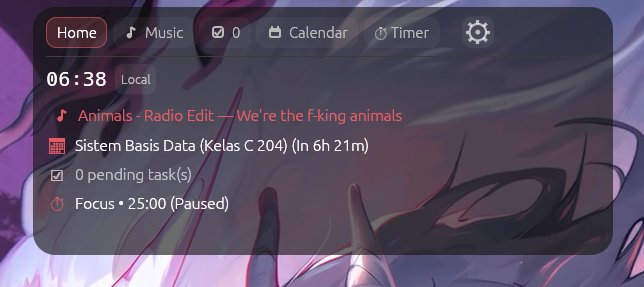
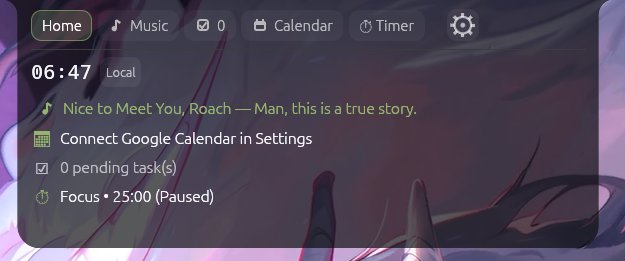
docs: update Home Overview preview screenshot

diff --git a/docs/04 - Changelog & Dev Log.md b/docs/04 - Changelog & Dev Log.md
@@ -12,7 +12,7 @@ tags:
 
 ### Changed
 
-- `README.md`, `assets/*`: Memperbarui dokumentasi fitur dan menyematkan seluruh galeri preview UI terbaru (`ui-notch-clock.png`, `ui-island-clock.png`, `ui-notch-music.png`, `ui-island-music.png`, `ui-home.jpg`, `ui-music-lyrics.jpg`, `ui-todo.jpg`, `ui-calendar.jpg`, `ui-timer.jpg`, `ui-settings.png`).
+- `README.md`, `assets/*`: Memperbarui dokumentasi fitur dan menyematkan seluruh galeri preview UI terbaru (`ui-notch-clock.png`, `ui-island-clock.png`, `ui-notch-music.png`, `ui-island-music.png`, `ui-home.jpg` [diperbarui], `ui-music-lyrics.jpg`, `ui-todo.jpg`, `ui-calendar.jpg`, `ui-timer.jpg`, `ui-settings.png`).
 - `src/ui/mod.rs`, `src/ui/settings.rs`: Mengoptimalkan frame pacing dan alokasi memori UI — menaikkan refresh karaoke lirik ke `16 ms` (~60 FPS) dan visualizer idle ke `33 ms` (~30 FPS) saat terlihat, menurunkan repaint saat overlay tersembunyi ke `250 ms`, serta menghindari kloning ulang `installed_fonts` dan `calendar_events` setiap frame pada `DeferredSettingsState`.
 
 ### Added
@@ -105,7 +105,7 @@ tags:
 
 ### Changed
 
-- `README.md`, `assets/*`: Memperbarui dokumentasi fitur dan menyematkan seluruh galeri preview UI terbaru (`ui-notch-clock.png`, `ui-island-clock.png`, `ui-notch-music.png`, `ui-island-music.png`, `ui-home.jpg`, `ui-music-lyrics.jpg`, `ui-todo.jpg`, `ui-calendar.jpg`, `ui-timer.jpg`, `ui-settings.png`).
+- `README.md`, `assets/*`: Memperbarui dokumentasi fitur dan menyematkan seluruh galeri preview UI terbaru (`ui-notch-clock.png`, `ui-island-clock.png`, `ui-notch-music.png`, `ui-island-music.png`, `ui-home.jpg` [diperbarui], `ui-music-lyrics.jpg`, `ui-todo.jpg`, `ui-calendar.jpg`, `ui-timer.jpg`, `ui-settings.png`).
 - `src/ui/mod.rs`, `src/ui/settings.rs`: Mengoptimalkan frame pacing dan alokasi memori UI — menaikkan refresh karaoke lirik ke `16 ms` (~60 FPS) dan visualizer idle ke `33 ms` (~30 FPS) saat terlihat, menurunkan repaint saat overlay tersembunyi ke `250 ms`, serta menghindari kloning ulang `installed_fonts` dan `calendar_events` setiap frame pada `DeferredSettingsState`. (Earlier)
 - `src/ui/mod.rs`, `src/config.rs`, `src/main.rs`: Menambahkan **Notch Dock Mode** (`notch_dock_mode`, default `true`) yang menempel pada tepi atas layar (`y = 0`) dengan telinga cekung atas (`paint_island_surface` + `egui::Mesh`), mini cover/disc badge + live lyric + 3-bar equalizer animasi saat idle musik, serta tetap otomatis tersembunyi saat aplikasi fullscreen aktif.
 - `src/platform/mod.rs`, `src/platform/windows.rs`, `src/platform/linux.rs`: Menambahkan ekstraksi cover album (`Storage_Streams::DataReader` pada WinRT SMTC & `mpris:artUrl` pada MPRIS2 Linux, cache per lagu, decode `image 0.25`) serta `extract_dominant_accent()` untuk mengekstrak warna aksen dominan album.
@@ -140,7 +140,7 @@ tags:
 
 ### Changed
 
-- `README.md`, `assets/*`: Memperbarui dokumentasi fitur dan menyematkan seluruh galeri preview UI terbaru (`ui-notch-clock.png`, `ui-island-clock.png`, `ui-notch-music.png`, `ui-island-music.png`, `ui-home.jpg`, `ui-music-lyrics.jpg`, `ui-todo.jpg`, `ui-calendar.jpg`, `ui-timer.jpg`, `ui-settings.png`).
+- `README.md`, `assets/*`: Memperbarui dokumentasi fitur dan menyematkan seluruh galeri preview UI terbaru (`ui-notch-clock.png`, `ui-island-clock.png`, `ui-notch-music.png`, `ui-island-music.png`, `ui-home.jpg` [diperbarui], `ui-music-lyrics.jpg`, `ui-todo.jpg`, `ui-calendar.jpg`, `ui-timer.jpg`, `ui-settings.png`).
 - `src/ui/mod.rs`, `src/ui/settings.rs`: Mengoptimalkan frame pacing dan alokasi memori UI — menaikkan refresh karaoke lirik ke `16 ms` (~60 FPS) dan visualizer idle ke `33 ms` (~30 FPS) saat terlihat, menurunkan repaint saat overlay tersembunyi ke `250 ms`, serta menghindari kloning ulang `installed_fonts` dan `calendar_events` setiap frame pada `DeferredSettingsState`. (Initial Bootstrap)
 - `Cargo.toml`: Inisialisasi manifest proyek Rust (`edition = "2024"`) dengan dependensi `eframe 0.37` (`glow`), `windows 0.62`, `zbus 6.5` (target Linux), `tray-icon 0.27`, `serde`, `toml`, dan `directories`, serta profil release hemat ukuran (`lto = "thin"`, `strip = true`, `opt-level = "s"`).
 - `src/config.rs`: Menambahkan loader/saver konfigurasi lokal `config.toml` (`auto_hide_when_idle`, `top_offset_px`, `collapse_timeout_secs`) beserta 3 unit test fallback & round-trip TOML.
